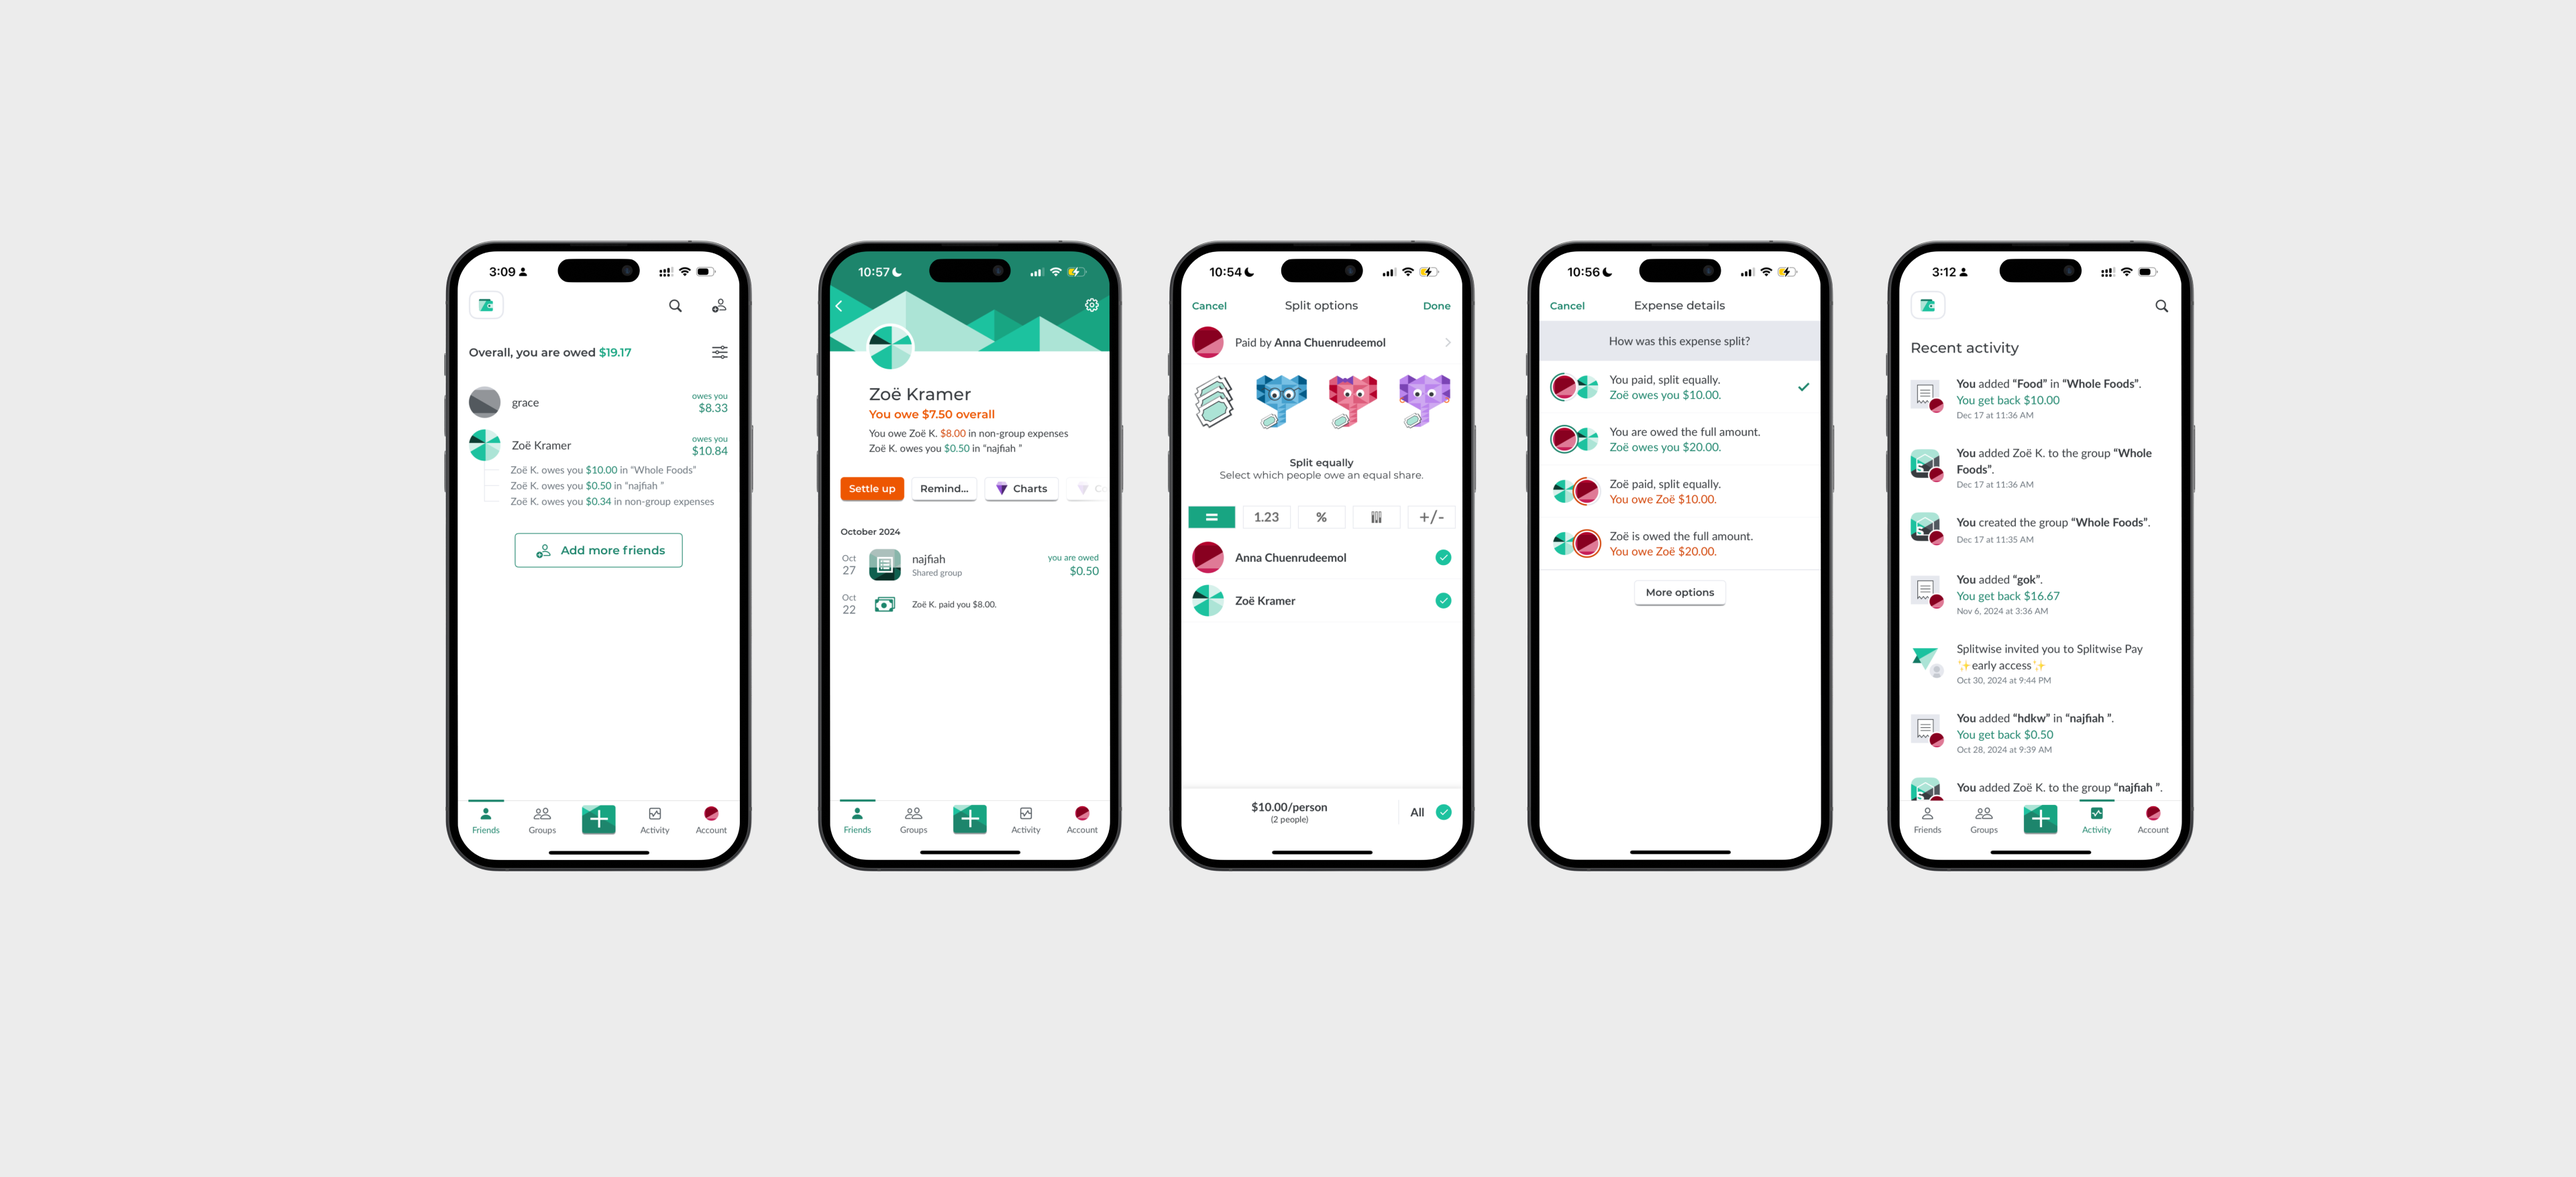
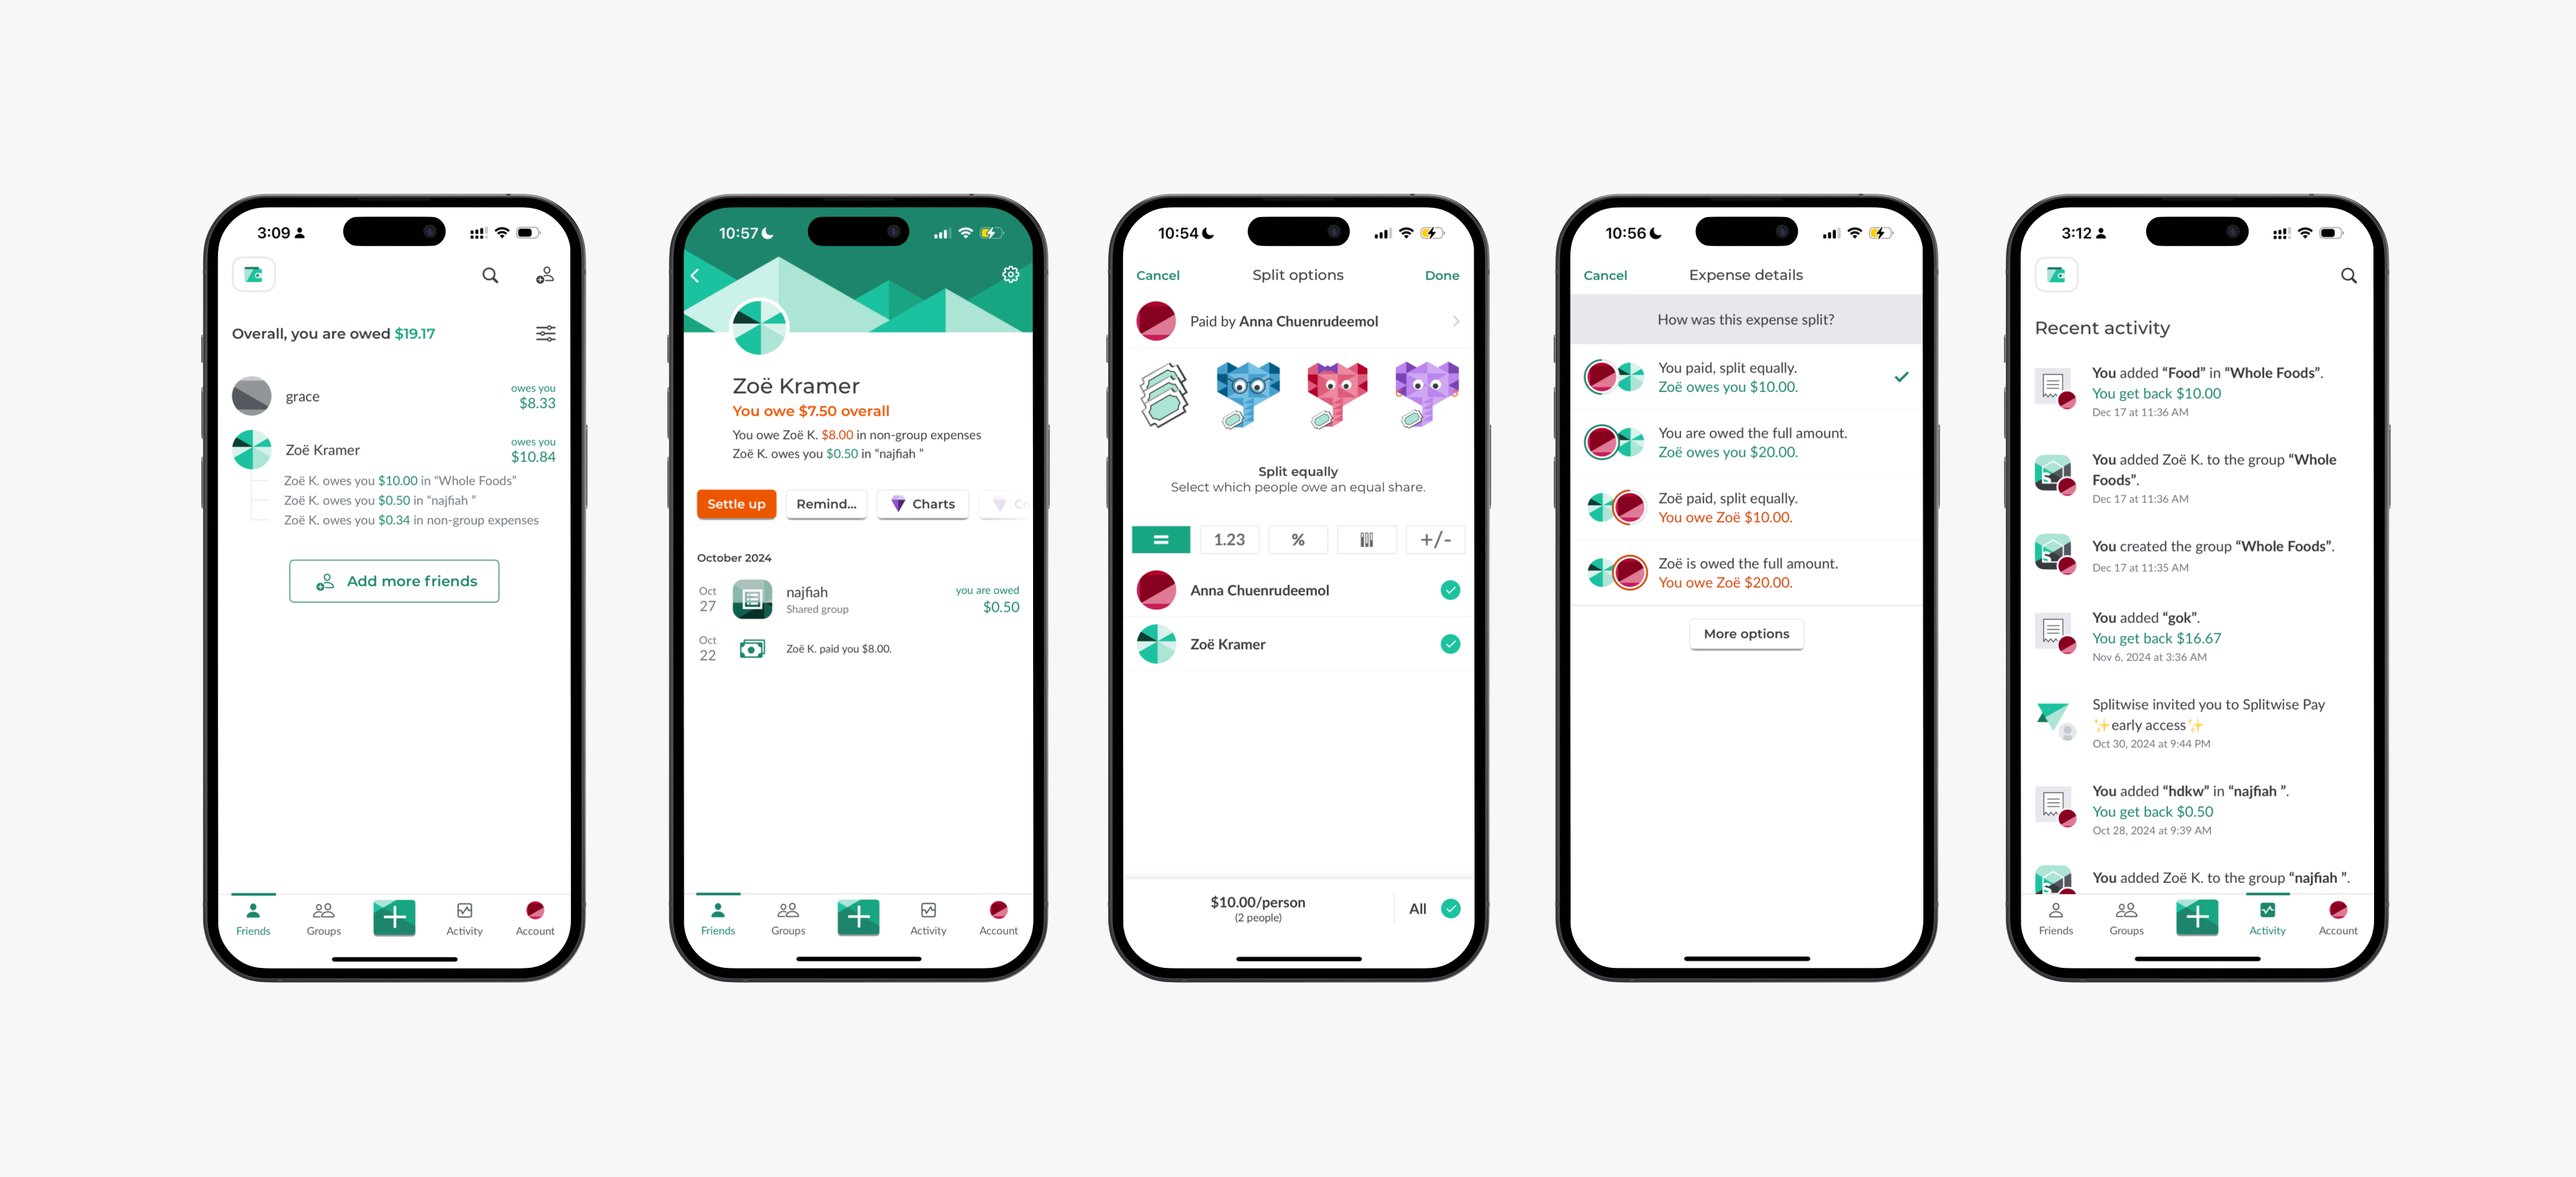
piggy new thumbnail

Changed region(s): [[0.0625, 0.1538, 0.9375, 0.861]]

diff --git a/work/work_1.html b/work/work_1.html
@@ -79,7 +79,7 @@
     </table>
 
     <!-- OTHER WORK -->
-    <div id="short-bio-container" class="d-flex position-absolute end-0 me-5" style="margin-top: 2.5%">
+    <div id="short-bio-container" class="d-flex position-absolute end-0 me-5">
 
         <!-- FIRST COLUMN WORK -->
         <div class="pe-1 bio-content d-flex-column">
@@ -87,7 +87,7 @@
                 <a class="nav-options white" href="index.html">OTHER WORK</a>
             </div>      
             <div id="Slot-1" class="pt-3">
-                <a style="text-decoration: underline; color: black;" href="work_1.html">Piggy</a>
+                <a style="text-decoration: underline; color: black; font-weight: 400;" href="work_1.html">Piggy</a>
                 <p>PRODUCT DESIGN</p>    
             </div>
             <div id="Slot-2">
@@ -121,8 +121,8 @@
 
 <section>
     <!-- HERO IMAGE  ----------------------------------------------------------------->
-    <div>
-        <img id="image-thumbnail" src="../Images/piggy/piggy-thumbnail-2.jpg" class="mt-3 ps-4 pe-4 img-fluid" alt="Piggy">
+    <div class="ps-2 pe-2">
+        <img id="image-thumbnail" src="../Images/piggy/piggy-thumbnail-3.png" class="img-fluid" alt="Piggy">
     </div>
     
     <!-- BEGINNING PROCESS  -------------------------------------------------------------------------------------->
@@ -183,8 +183,8 @@
     </div>
 
     <!-- Splitwise Image -->
-    <div>
-        <img id="image-thumbnail" src="../Images/piggy/splitwise.png" class="mt-5 ps-4 pe-4 img-fluid" alt="Piggy">
+    <div class="pe-2 ps-2">
+        <img id="image-thumbnail" src="../Images/piggy/splitwise.png" class="mt-5 img-fluid" alt="Piggy">
     </div>
 
     <!-- PROPOSED SOLUTION -------------------------------------- -->
@@ -215,7 +215,7 @@
     </div>
 
     <!-- HOME - TRIPS VIDEO -------------------------------------- -->
-    <div id="piggy-video-home" class="mt-4 pt-4 ps-4 pe-4">
+    <div id="piggy-video-home" class="mt-4 pt-4 ps-2 pe-2">
         <video width="100%" autoplay muted loop>
             <source src="../Images/piggy/home-trips.mp4" type="video/mp4">
             Your browser does not support the video tag.
@@ -247,7 +247,7 @@
         </table>
     </div>
 
-    <div id="piggy-video-trip-details" class="mt-4 pt-4 ps-4 pe-4">
+    <div id="piggy-video-trip-details" class="mt-4 pt-4 ps-2 pe-2">
         <video width="100%" autoplay muted loop>
             <source src="../Images/piggy/trip-details.mp4" type="video/mp4">
             Your browser does not support the video tag.

diff --git a/work/work_2.html b/work/work_2.html
@@ -157,7 +157,7 @@
         </table>
     </div>
     <div>
-        <img id="image-thumbnail" src="../Images/prostitution/MacBook Pro 14_ - 19.png" class="mt-5 ps-5 pe-5 img-fluid" alt="Piggy">
+        <img id="image-thumbnail" src="../Images/prostitution/MacBook Pro 14_ - 19.png" class="mt-5 ps-5 pe-5 img-fluid" alt="Prostitution">
     </div>
 
     <div id="dataviz-flowers" class="ps-4 work-process-block line">
@@ -180,7 +180,7 @@
                         <!-- <p class="black">From this, we're prompted with the problem space: <br><br><span style="line-height: 1.5rem; font-weight: 300; font-size: 1.1rem;">How can we camouflage the sterile experience of an expense splitting <br>app with one that is social, memorable, <br>and flexible?</span></p> -->
                     <!-- </td> -->
                     <td style="width: 85%;">
-                        <div><img id="image-thumbnail" src="../Images/prostitution/flowers_data-viz.webp" style="width: 1050px; margin-left: 5%;" alt="Piggy"></div>
+                        <div><img id="image-thumbnail" src="../Images/prostitution/flowers_data-viz.webp" style="width: 1050px; margin-left: 5%;" alt="Prostitution"></div>
                     </td>
                 </tr>
             </tbody>

diff --git a/index.html b/index.html
@@ -48,7 +48,7 @@
             </div>
         </nav>
       <!-- CONTAINER FOR ENTIRE ROW -->
-      <div id="short-bio-container" class="mt-3 d-flex" style="margin-left: 28%;">
+      <div id="short-bio-container" class="mt-3 d-flex" style="margin-left: 50%;">
 
         <!-- FIRST COLUMN WORK -->
         <div class="pe-1 bio-content d-flex-column";>

diff --git a/style.css b/style.css
@@ -33,6 +33,10 @@ img{
     border-radius: 5px;
 }
 
+video{
+    border-radius: 5px;
+}
+
 /* LOAD IN ANIMATION---------------------------------------------------------------------------- */ 
 /* @keyframes appear {
     from{
